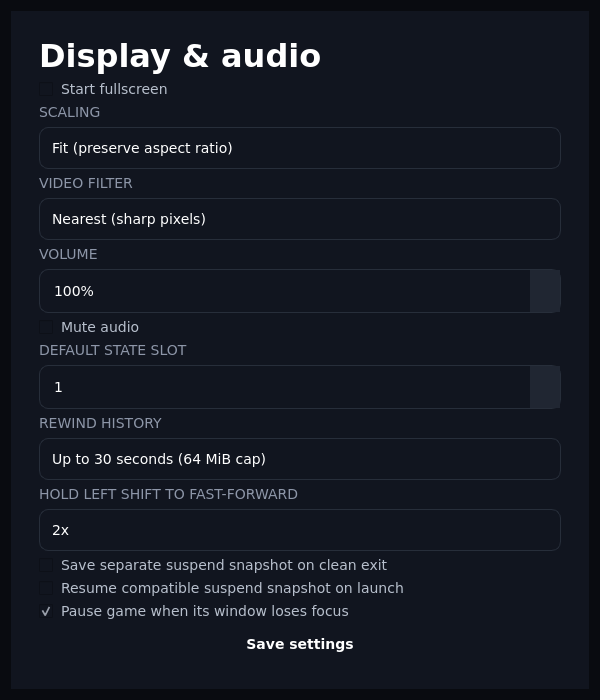
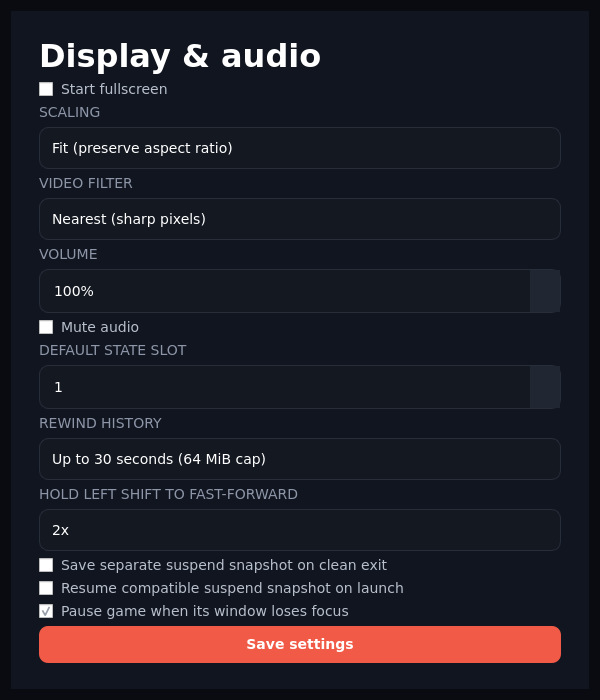
Keep scrollable playback settings readable in the dark theme

Changed region(s): [[0.06, 0.78, 0.96, 0.96], [0.06, 0.45, 0.09, 0.48], [0.06, 0.12, 0.09, 0.15]]

diff --git a/src/forge_emulation/ui/main_window.py b/src/forge_emulation/ui/main_window.py
@@ -351,7 +351,8 @@ class SettingsDialog(QDialog):
         scroll = QScrollArea()
         scroll.setWidgetResizable(True)
         content = QWidget()
-        content.setStyleSheet("background-color: #11151f;")
+        content.setObjectName("SettingsContent")
+        content.setStyleSheet("QWidget#SettingsContent { background-color: #11151f; }")
         layout = QVBoxLayout(content)
         scroll.setWidget(content)
         outer.addWidget(scroll)
